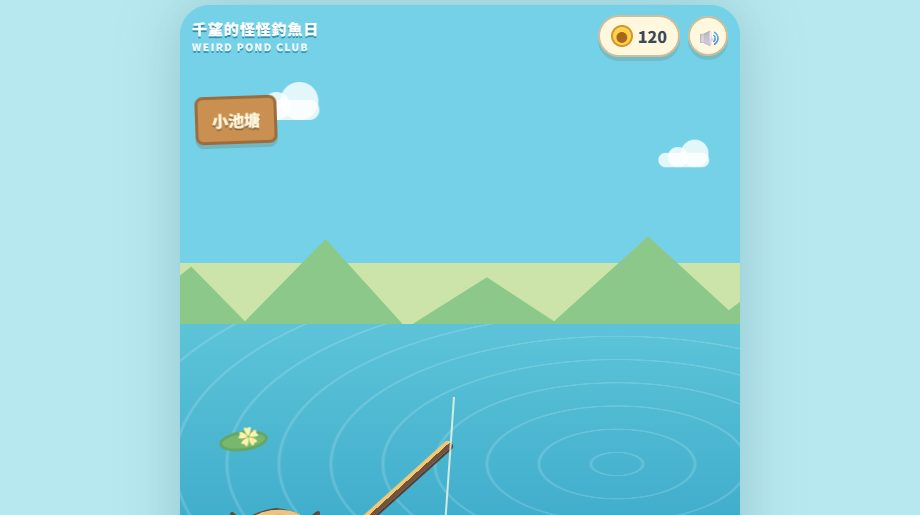
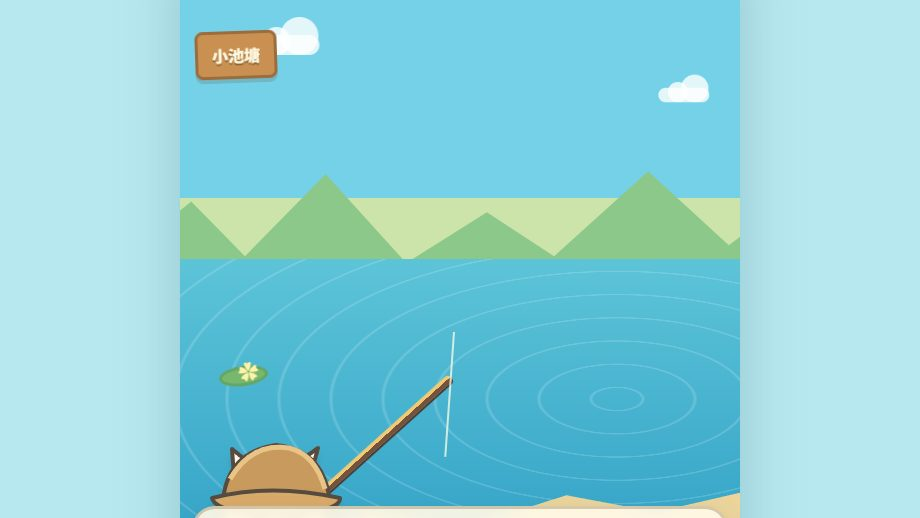
縮圖修正：xiaokui_alive 只留角色面板、YouTube 只留頻道橫幅、釣魚圖去掉標題列
Claude-Session: https://claude.ai/code/session_01KXBhj3Auomo7zmxvDG8cDX

diff --git a/src/data/projects.js b/src/data/projects.js
@@ -117,6 +117,7 @@ export const sideProjectGroups = [
         title: "xiaokui_alive",
         description: "把 Codex 也包成有人設的桌面夥伴，連 AI 同事都有自己的樣子。",
         image: "./projects/xiaokui-alive.jpg",
+        fit: "contain",
         url: "https://github.com/wuguofish/xiaokui_alive"
       },
       {
@@ -156,6 +157,7 @@ export const collabWorks = [
     title: "竣宇獸 YouTube 頻道",
     description: "Manim 畫動畫、TTS 配音、FFmpeg 合成，整條產線 AI 自己跑，做出 20 多支 Claude Code 教學影片。人類負責監督和說「還行」。",
     image: "./projects/tsunumon-channel.jpg",
+    fit: "contain",
     url: "https://www.youtube.com/@tsunumon",
     links: [
       { label: "YouTube", url: "https://www.youtube.com/@tsunumon" },
